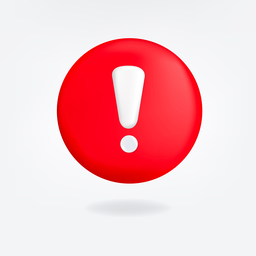
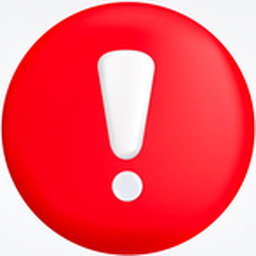
Corrige le fondu de la carte residence et les libelles des tuiles
Le fondu de la photo etait approxime. Le Figma applique un degrade de
225 de large, de x=110 au bord droit de la carte, et non sur la seule
largeur de la photo. Il atteint la couleur de la carte a 85,86 % du
parcours et s'arrete a 27,7 % du bord droit sans jamais devenir
transparent : il y subsiste un voile de 16 %. C'est lui qui fond la
photo dans la carte au lieu de la poser dessus. Les deux themes ont
leurs propres bornes, la variante sombre poussant le degrade plus loin.

« Signalements » se brisait en plein mot dans les tuiles d'actions
rapides : le mot est un seul bloc et les tuiles du Figma sont taillees
pour « Reports ». Le libelle se reduit desormais au lieu d'etre casse.

L'illustration de l'alerte est recadree au plus juste sur la bille — la
source gardait de larges marges blanches qui formaient un disque clair
dans la carte. Elle recoit une onde qui se propage en boucle derriere
elle et une respiration legere, sans deplacer aucun element de la carte.

diff --git a/lib/presentation/widgets/gi_alert_dialog.dart b/lib/presentation/widgets/gi_alert_dialog.dart
@@ -1,3 +1,4 @@
+import 'dart:math' as math;
 import 'dart:ui' as ui;
 
 import 'package:flutter/material.dart';
@@ -116,7 +117,7 @@ class _GiAlert extends StatelessWidget {
                 // L'illustration deborde en haut : sans marge, la carte
                 // toucherait le bord de l'ecran sur les petits appareils.
                 child: Padding(
-                  padding: const EdgeInsets.fromLTRB(20, 60, 20, 20),
+                  padding: const EdgeInsets.fromLTRB(20, 84, 20, 20),
                   child: _card(context, c, artScale),
                 ),
               ),
@@ -188,36 +189,11 @@ class _GiAlert extends StatelessWidget {
               ),
             ),
             Positioned(
-              top: -45,
-              child: Transform.scale(
-                scale: artScale,
-                child: Container(
-                  width: 88,
-                  height: 88,
-                  decoration: BoxDecoration(
-                    shape: BoxShape.circle,
-                    // L'anneau reprend la couleur de la carte : c'est lui qui
-                    // detache l'illustration du fond de l'ecran.
-                    border: Border.all(color: c.scaffold, width: 5),
-                  ),
-                  child: ClipOval(
-                    // Le Figma agrandit l'image a 176 % dans son cercle et la
-                    // decale : c'est ce qui donne le cadrage serre sur le
-                    // sujet. Transform.scale est necessaire ici — le parametre
-                    // `scale` de Image.asset change la taille logique de
-                    // l'image, pas le cadrage, et reste sans effet sous un
-                    // BoxFit.cover dans une boite fixe.
-                    child: Transform.scale(
-                      scale: 1.758,
-                      alignment: const Alignment(-0.12, 0.10),
-                      child: Image.asset(
-                        'assets/figma/alert_illustration.png',
-                        fit: BoxFit.cover,
-                      ),
-                    ),
-                  ),
-                ),
-              ),
+              // Le Figma pose le cercle de 88 a -45. Le halo l'entoure dans
+              // une boite de 140, soit 26 de marge de chaque cote : on remonte
+              // d'autant pour que le cercle retombe exactement a -45.
+              top: -45 - 26,
+              child: _AlertArt(entrance: artScale, ring: c.scaffold),
             ),
           ],
         ),
@@ -259,6 +235,100 @@ class _GiAlert extends StatelessWidget {
           ),
         ),
       ),
+    );
+  }
+}
+
+/// Illustration de l'alerte — cercle de 88 du Figma, cercle d'un anneau de 5
+/// a la couleur de la carte.
+///
+/// Deux mouvements se superposent. A l'ouverture, l'illustration arrive avec
+/// le ressort pilote par la transition du dialogue. Ensuite, une onde part du
+/// cercle en s'elargissant et en s'effacant, pendant que la bille respire
+/// legerement. L'onde attire l'oeil sans agiter la carte : elle reste derriere
+/// l'illustration et ne deplace aucun element.
+class _AlertArt extends StatefulWidget {
+  /// Echelle d'entree, pilotee par l'animation de route du dialogue.
+  final double entrance;
+  final Color ring;
+
+  const _AlertArt({required this.entrance, required this.ring});
+
+  @override
+  State<_AlertArt> createState() => _AlertArtState();
+}
+
+class _AlertArtState extends State<_AlertArt>
+    with SingleTickerProviderStateMixin {
+  late final AnimationController _loop = AnimationController(
+    vsync: this,
+    duration: const Duration(milliseconds: 1900),
+  )..repeat();
+
+  @override
+  void dispose() {
+    _loop.dispose();
+    super.dispose();
+  }
+
+  @override
+  Widget build(BuildContext context) {
+    final reduceMotion = MediaQuery.maybeDisableAnimationsOf(context) ?? false;
+
+    return AnimatedBuilder(
+      animation: _loop,
+      builder: (context, _) {
+        final t = reduceMotion ? 0.0 : _loop.value;
+
+        // L'onde : part de la taille du cercle et s'efface en s'elargissant.
+        final wave = Curves.easeOut.transform(t);
+        // La respiration : un aller-retour complet par cycle, sans a-coup au
+        // bouclage puisque le sinus revient exactement a son point de depart.
+        final breath = reduceMotion ? 0.0 : math.sin(t * 2 * math.pi);
+
+        return SizedBox(
+          width: 140,
+          height: 140,
+          child: Stack(
+            alignment: Alignment.center,
+            children: [
+              Transform.scale(
+                scale: 0.63 + 0.37 * wave,
+                child: Opacity(
+                  opacity: (1 - wave) * 0.30,
+                  child: Container(
+                    width: 140,
+                    height: 140,
+                    decoration: const BoxDecoration(
+                      shape: BoxShape.circle,
+                      color: FigAlert.error,
+                    ),
+                  ),
+                ),
+              ),
+              Transform.scale(
+                scale: widget.entrance * (1 + 0.025 * breath),
+                child: Container(
+                  width: 88,
+                  height: 88,
+                  decoration: BoxDecoration(
+                    shape: BoxShape.circle,
+                    border: Border.all(color: widget.ring, width: 5),
+                  ),
+                  child: ClipOval(
+                    // L'asset est desormais recadre au plus juste sur la
+                    // bille : un simple cover suffit, sans agrandissement.
+                    child: Image.asset(
+                      'assets/figma/alert_illustration.png',
+                      fit: BoxFit.cover,
+                    ),
+                  ),
+                ),
+              ),
+            ],
+          ),
+        );
+      },
     );
   }
 }

diff --git a/lib/presentation/screens/resident_home_screen.dart b/lib/presentation/screens/resident_home_screen.dart
@@ -476,6 +476,7 @@ class _ResidentHomeScreenState extends State<ResidentHomeScreen> {
   }
 
   Widget _heroCard(GiColors c, AppL10n t, Map property) {
+    final isDark = Theme.of(context).brightness == Brightness.dark;
     final residence = property['Residence'] is Map
         ? Map<String, dynamic>.from(property['Residence'] as Map)
         : <String, dynamic>{};
@@ -503,27 +504,49 @@ class _ResidentHomeScreenState extends State<ResidentHomeScreen> {
             // La photo occupe la droite de la carte et se fond vers la
             // gauche : dans le Figma elle est masquee par un degrade qui la
             // ramene a la couleur de la carte.
+            // Fondu de la photo vers la carte, releve sur le Figma.
+            // Le degrade couvre 225 de large — de x=110 au bord droit de la
+            // carte — et non la seule largeur de la photo. Le voile atteint la
+            // couleur de la carte a 85,86 % du parcours et s'arrete a 27,7 %
+            // du bord droit sans jamais devenir totalement transparent : il y
+            // reste 16 %, ce qui fond la photo dans la carte au lieu de la
+            // poser dessus.
             PositionedDirectional(
               end: 0,
               top: 0,
               bottom: 0,
-              width: 205,
-              child: ShaderMask(
-                blendMode: BlendMode.dstIn,
-                shaderCallback: (rect) => const LinearGradient(
-                  begin: Alignment.centerLeft,
-                  end: Alignment.centerRight,
-                  colors: [Colors.transparent, Colors.white],
-                  stops: [0.14, 0.86],
-                ).createShader(rect),
-                child: asset != null
-                    ? Image.asset(asset, fit: BoxFit.cover)
-                    : (url != null
-                        ? Image.network(url,
-                            fit: BoxFit.cover,
-                            errorBuilder: (_, __, ___) =>
-                                ColoredBox(color: c.card))
-                        : ColoredBox(color: c.card)),
+              width: 225,
+              child: Stack(
+                fit: StackFit.expand,
+                children: [
+                  ShaderMask(
+                    blendMode: BlendMode.dstIn,
+                    shaderCallback: (rect) => LinearGradient(
+                      begin: AlignmentDirectional.centerStart,
+                      end: AlignmentDirectional.centerEnd,
+                      colors: const [Colors.transparent, Colors.white],
+                      // 1 - 0,8586 puis 1 - 0,277 en theme clair ;
+                      // 1 - 0,8585 puis 1 - 0,0771 en theme sombre.
+                      stops: isDark
+                          ? const [0.1415, 0.9229]
+                          : const [0.1414, 0.7230],
+                    ).createShader(rect),
+                    child: asset != null
+                        ? Image.asset(asset, fit: BoxFit.cover)
+                        : (url != null
+                            ? Image.network(url,
+                                fit: BoxFit.cover,
+                                errorBuilder: (_, __, ___) =>
+                                    ColoredBox(color: c.card))
+                            : ColoredBox(color: c.card)),
+                  ),
+                  // Le voile residuel de 16 % du Figma.
+                  IgnorePointer(
+                    child: ColoredBox(
+                      color: c.card.withValues(alpha: 0.16),
+                    ),
+                  ),
+                ],
               ),
             ),
             Padding(
@@ -825,11 +848,20 @@ class _ResidentHomeScreenState extends State<ResidentHomeScreen> {
                 : Icon(icon, size: 20, color: accent),
           ),
           const SizedBox(height: FigSpace.lg),
-          Text(label,
-              textAlign: TextAlign.center,
-              maxLines: 2,
-              overflow: TextOverflow.ellipsis,
-              style: FigText.body.copyWith(color: c.textMuted)),
+          // Les tuiles du Figma sont taillees pour « Reports ».
+          // « Signalements » n'y tient pas et Flutter le brisait en plein
+          // milieu, faute d'espace ou couper. On reduit le libelle plutot que
+          // de le casser.
+          SizedBox(
+            height: 16,
+            child: FittedBox(
+              fit: BoxFit.scaleDown,
+              child: Text(label,
+                  textAlign: TextAlign.center,
+                  maxLines: 1,
+                  style: FigText.body.copyWith(color: c.textMuted)),
+            ),
+          ),
         ],
       ),
     );
